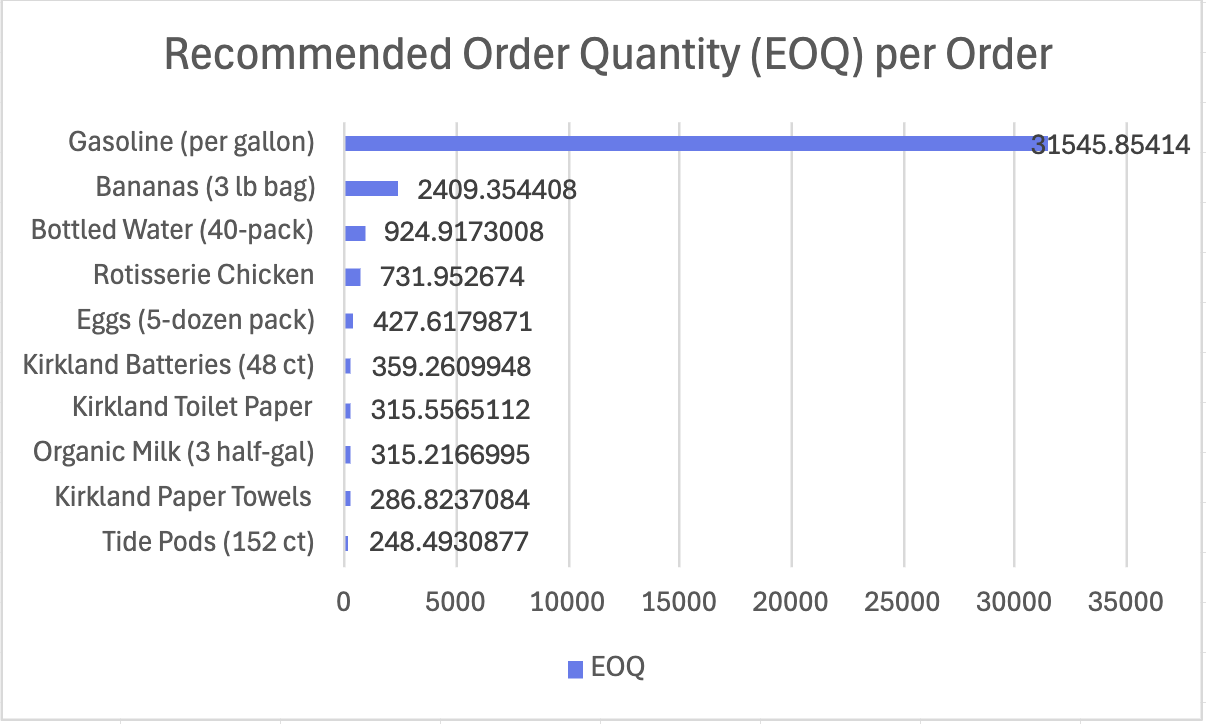
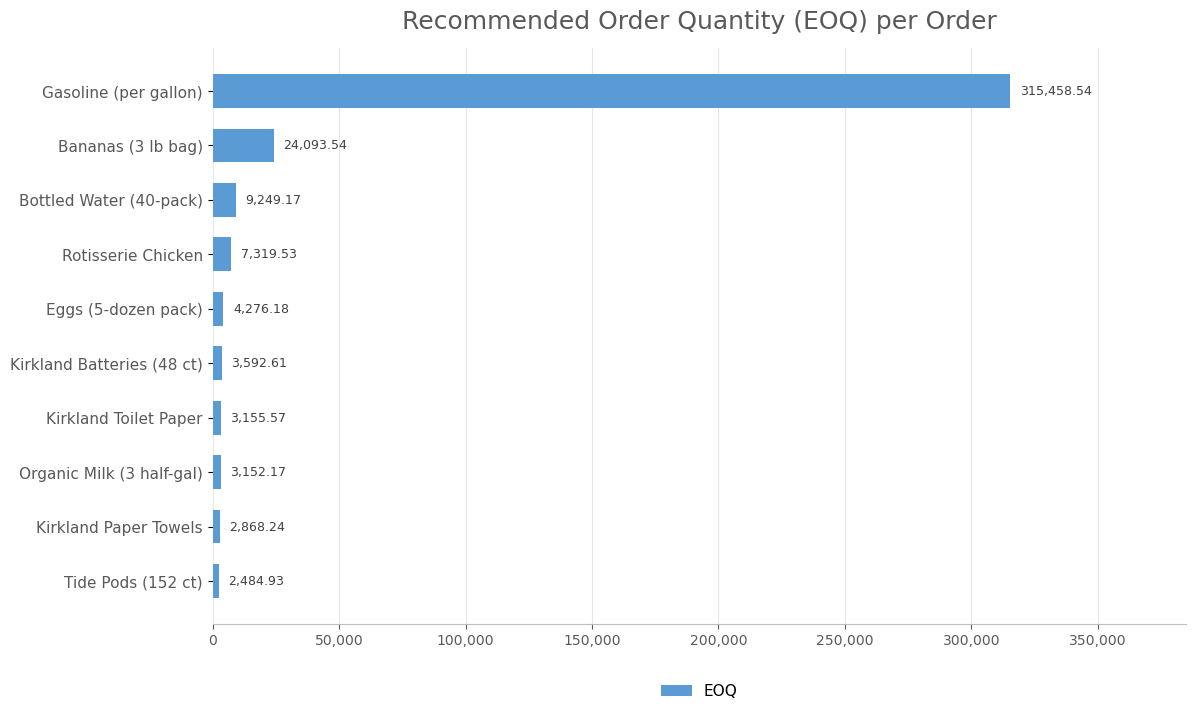
Fix inventory holding cost so the rate is applied as a percent. (#1)
Holding cost per unit was unit cost times the entered holding percent
(22.5) instead of the percent rate (0.225), which inflated holding cost
100x and understated EOQ. Divide by 100, correct safety stock units, keep
the current-policy baseline, refresh cached values, and align the README
and charts with the recalculated results.

diff --git a/README.md b/README.md
@@ -1,32 +1,57 @@
 # Costco Inventory Optimization Project
-### Economic Order Quanity + Saftey Stock Model | Excel
+### Economic Order Quantity + Safety Stock Model | Excel
 
-Realistic EOQ model for 10 high-velocity Costco products usign 2025 data
-Shows optimal order quantities, reorder points, and safety stock to minimize total inventory cost.
+EOQ model for 10 high-velocity Costco products using 2025 data.
+Order quantities minimize annual ordering plus holding cost. The workbook also calculates a reorder point and safety stock for each product.
 
 ## Key Results
-- Total annual savings vs current policy: **$9.7 million** per warehouse
-- Average cost reduction: **-73.65%**
-- Biggest winners: Gasoline, Bananas, Bottled Water
+Figures are for one warehouse. Demand on the Data sheet is already scaled to a single warehouse. Dollar amounts match the Dashboard currency format, and percentages match a `0.00%` display of the model.
+
+- Total annual savings vs current policy: **$11,403,317.23** per warehouse
+- Average per-product cost change: **-97.37%**
+  - Dashboard cell B4: the simple average of each product's EOQ cost ÷ current-policy cost − 1
+  - The same products are **97.37%** lower on that simple average, which is `(current − EOQ) / current` averaged across the 10 products
+- Dollar-weighted cost reduction: **98.37%**
+  - `(total current-policy cost − total EOQ cost) / total current-policy cost`
+- Biggest winners by dollar savings: **Gasoline, Bananas, Kirkland Toilet Paper**
+
+| Product | Annual savings | Per-product cost change |
+| --- | ---: | ---: |
+| Gasoline (per gallon) | $7,078,848.29 | -98.87% |
+| Bananas (3 lb bag) | $1,163,902.12 | -98.65% |
+| Kirkland Toilet Paper | $612,034.35 | -97.63% |
+| Kirkland Paper Towels | $534,362.07 | -97.59% |
+| Tide Pods (152 ct) | $522,623.12 | -96.87% |
+| Kirkland Batteries (48 ct) | $363,015.94 | -96.59% |
+| Eggs (5-dozen pack) | $338,671.69 | -97.21% |
+| Bottled Water (40-pack) | $330,096.55 | -97.55% |
+| Organic Milk (3 half-gal) | $320,840.04 | -96.99% |
+| Rotisserie Chicken | $138,923.04 | -95.72% |
+
+## How the model is calculated
+- Holding cost per unit = unit cost × (holding % ÷ 100). An entered holding % of 22.5 means 22.5%.
+- EOQ inventory cost = annual ordering cost + annual cycle-stock holding cost.
+- Current-policy cost is the baseline in Calculations column M: 25% of annual unit-cost purchases, plus ordering cost at a fixed lot size of 2,000 units (50,000 for bananas, 10,000 for gasoline).
+- Safety stock = `1.645 × √(daily demand × lead time in days)`, using a 95% service factor and variance equal to expected demand during lead time. Reorder point = safety stock + demand during lead time. Those two columns are reported in units; they are separate from the cost comparison.
 
 ## How to Use
-- Download `Costco_Inventory_Data.xlsx`
+- Download `Costco_Inventory_Optimizer.xlsx`
 - Go to the "Data" sheet → update demand or costs → everything auto-calculates
-- Check "Dashboard" sheet for charts and recommendations
+- Check the "Dashboard" sheet for the savings summary and charts
 
-## Charts 
-![Cost Comparison] (chart2.png)
-![Recommended EOQ per Product] (chart1.png)
+## Charts
+![Cost Comparison](chart2.png)
+![Recommended EOQ per Product](chart1.png)
 
 ## Data Sources
 - Demand -> scaled to per warehouse
-- Demand reverse-engineered from public renenue, earnings calls, and Costco prices (Dec 2025)
+- Demand reverse-engineered from public revenue, earnings calls, and Costco prices (Dec 2025)
 - Prices checked on costco.com Dec 2025
 - Holding % and order costs evaluated based on industry standards
 
-## Tools Uses
+## Tools Used
 - Microsoft Excel (EOQ, Safety Stock, Reorder Point)
-- Charts + conditional formatting
+- Charts
 
 ___________________________________________________________________________________
 Built by Vennela Kottapally
